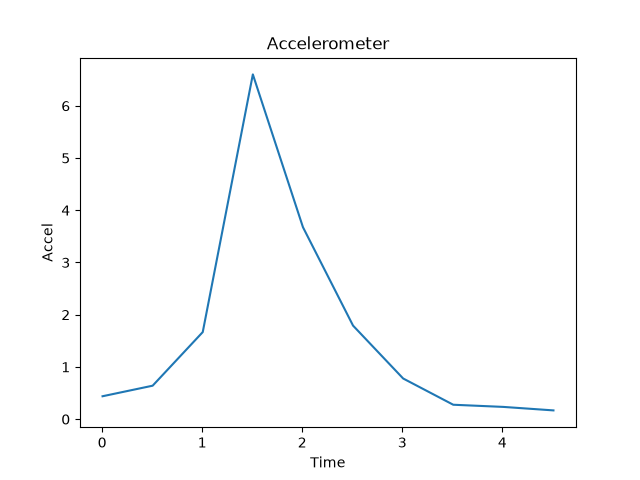
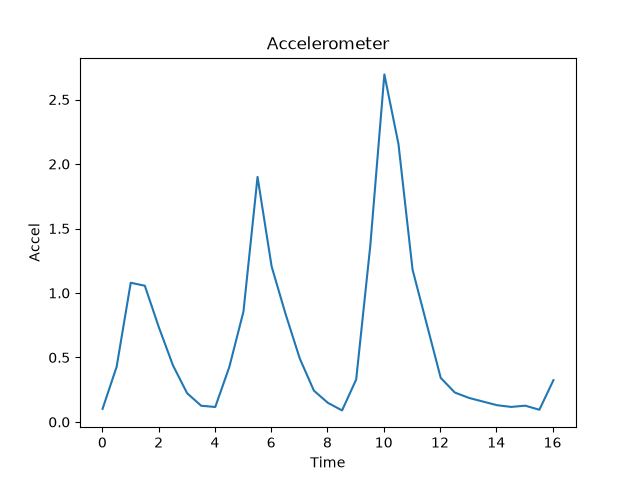
Experiment 2: measurements and notebook updates

diff --git a/02-centripetal/plot_script.py b/02-centripetal/plot_script.py
@@ -4,7 +4,7 @@ import matplotlib.pyplot as plt
 
 os.makedirs('plots', exist_ok=True)
 
-df = pd.read_csv('data/R0.20_test.csv')
+df = pd.read_csv('data/R0.20_test2.csv')
 
 plt.figure()
 plt.plot(df['Time (s)'], df['Angular velocity (rad/s)'])
